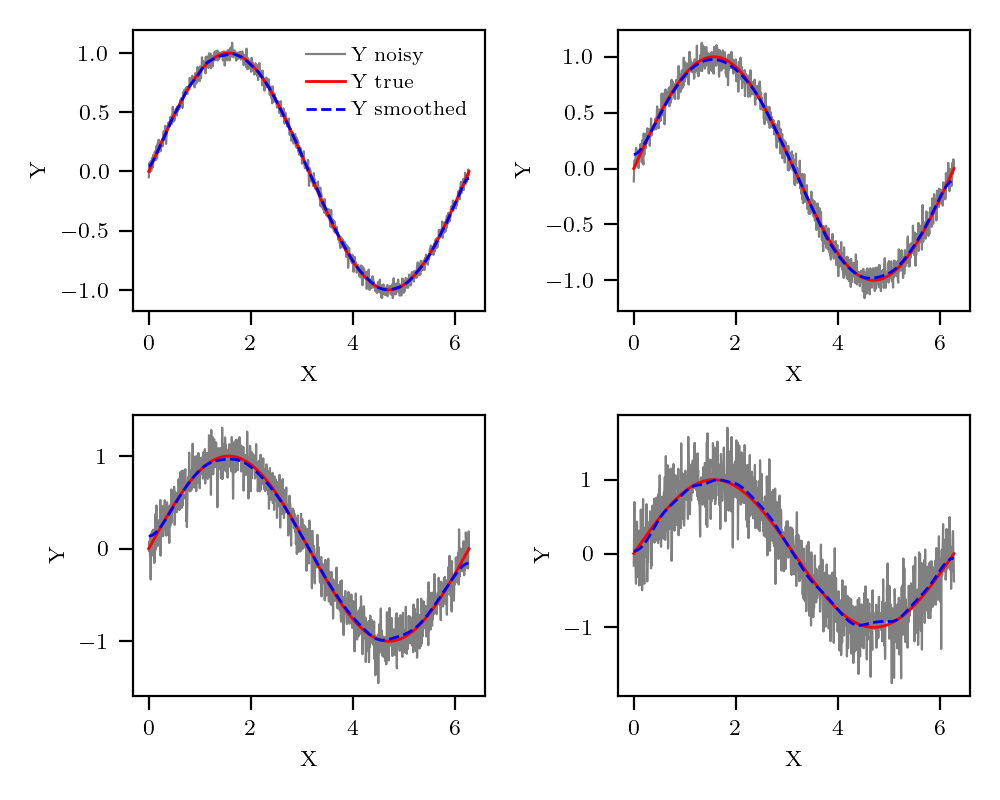
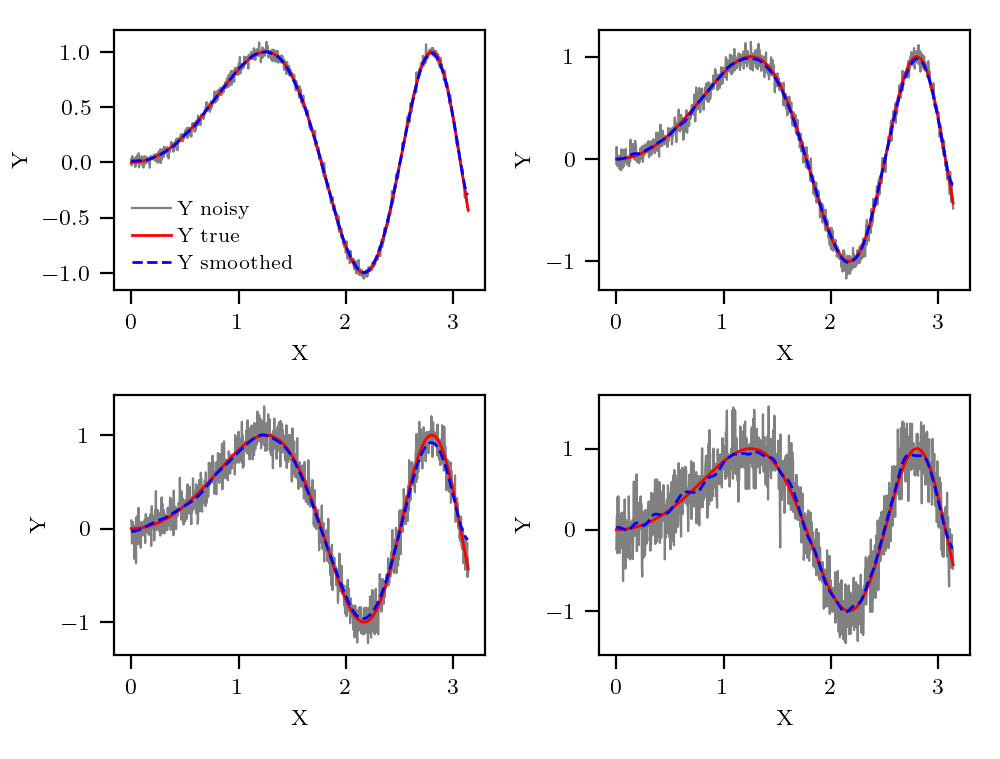
lsq (#7)

diff --git a/README.md b/README.md
@@ -29,20 +29,20 @@ in particular `S + N` reconstructs the original data `V`.
 ### Example
 
 ```julia
+begin
 using KissSmoothing, Statistics, LinearAlgebra
 using PyPlot
 figure(figsize=(5,4))
 for (i,s) in enumerate(2 .^ LinRange(-1.5,1.5,4))
     # generating a simple sinusoidal signal
-    X = LinRange(0,2pi,1000)
-    Y = sin.(X)
+    X = LinRange(0, pi, 1000)
+    Y = sin.(X.^2)
     # generate it's noise corrupted version
     TN = std(Y).*randn(length(X))./7 .*s
     raw_S = Y .+ TN
     # using this package function to extract signal S and noise N
     S, N = denoise(raw_S)
-
-    subplot(2,2,i)
+    subplot(2, 2, i)
     plot(X,raw_S, color="gray",lw=0.8, label="Y noisy")
     plot(X,Y,color="red",label="Y true")
     plot(X,S,color="blue", ls ="dashed",label="Y smoothed")
@@ -52,6 +52,7 @@ for (i,s) in enumerate(2 .^ LinRange(-1.5,1.5,4))
 end
 tight_layout()
 savefig("test.png")
+end
 ```
 ![test.png](test.png "Plot of 1D signal smoothing")
 
@@ -152,7 +153,7 @@ savefig("nspline.png")
 
 ## Sine Series Estimation
 
-    fit_sine_series(X::Vector, Y::Vector, basis_elements::Integer, noise=0)
+    fit_sine_series(X::Vector,Y::Vector, basis_elements::Integer; lambda = 0.0, order=3)
 
 fit Y ~ 1 + X + Σ sin(.) by minimising Σ (Y - f(x))^2 + lambda * ∫(Δ^order F)^2
 
@@ -191,3 +192,38 @@ tight_layout()
 savefig("sine_fit.png")
 ```
 ![sine_fit.png](sine_fit.png "Plot of FFT Spline estimation")
+
+
+
+## Least Squares Denoising
+
+    lsq_denoise(S::AbstractVector{<:Real}; order::Integer=3, strength::Real = NaN)
+
+denoise a sequence S by penalising its order-th finite differences in a least squares regression
+
+    `S` : sequence.
+
+    Keyword arguments:
+    
+    `order` : finite differencing order.
+    
+    `strength` : intensity of penalisation on the derivative, if unspecified it is auto-determined.
+
+return the filtered sequence.
+
+### Example
+
+```julia
+using PyPlot, KissSmoothing
+fg(x) = sin(x^2) + x
+x = collect(LinRange(0,pi,150))
+y = fg.(x) .+ randn(length(x)) .*0.1
+plot(y, color="red",lw=1.,label="noisy seq")
+plot(lsq_denoise(y,order=2), color="blue",lw=1.,label="filtered")
+xlabel("X")
+ylabel("Y")
+legend()
+tight_layout()
+savefig("lsq_denoise.png")
+```
+![lsq_denoise.png](lsq_denoise.png "Plot of LSQ Denoising")
